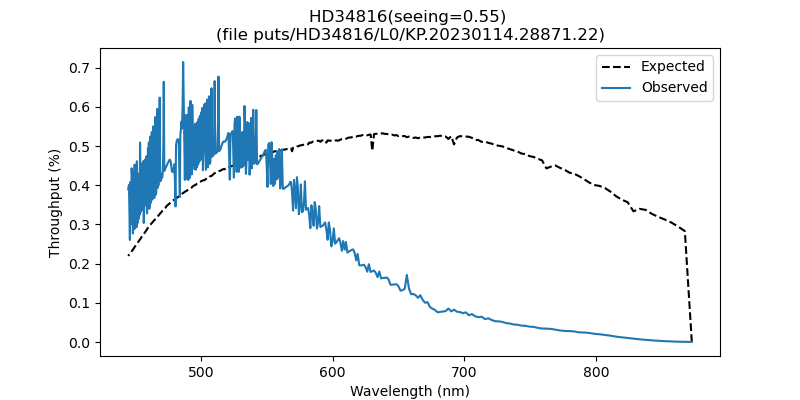
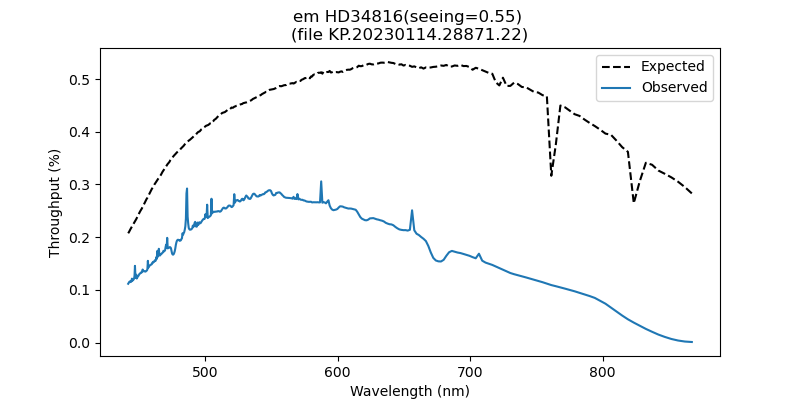
fit exp meter wave

diff --git a/calc_throughput_tools.py b/calc_throughput_tools.py
@@ -151,13 +151,12 @@ def load_em_data(filename='./data/10Lac/KP.20221110.26825.94_L1.fits',ploton=Fal
 	# Define wavelength arrays and disperion at each wavelength (nm per pixel)
 	wav_SCI_str = df_SCI_EM.columns[2:] # string (center) wavelengths of each pixel
 	wav_SCI     = df_SCI_EM.columns[2:].astype(float) # float (center) wavelengths of each pixel
-	disp_SCI    = wav_SCI*0+np.gradient(wav_SCI,1)*-1
-	disp_SKY    = wav_SKY*0+np.gradient(wav_SKY,1)*-1
-	disp_SCI_smooth = np.polyval(np.polyfit(wav_SCI,disp_SCI, deg=6),wav_SCI)
-	disp_SKY_smooth = np.polyval(np.polyfit(wav_SKY,disp_SKY, deg=6),wav_SKY)
-
-	# define normalized flux array (e- / nm / time)
-	df_SCI_EM_norm        = df_SCI_EM[wav_SCI_str] * EM_gain /disp_SCI
+	disp_SCI = wav_SCI*0+np.gradient(wav_SCI,1)*-1
+	disp_SCI_smooth   = np.polyval(np.polyfit(wav_SCI,disp_SCI, deg=6),wav_SCI)
+	wav_SCI_smooth    = wav_SCI[0] + -1*np.cumsum(disp_SCI_smooth)
+	
+	# define normalized flux array (e- / time)
+	df_SCI_EM_norm        = df_SCI_EM[wav_SCI_str] * EM_gain
 
 	# define time arrays
 	date_beg = np.array(df_SCI_EM["Date-Beg"], dtype=np.datetime64)
@@ -175,7 +174,7 @@ def load_em_data(filename='./data/10Lac/KP.20221110.26825.94_L1.fits',ploton=Fal
 	note   =header['OBJECT']
 
 	# reshape to match structure of kpf main data
-	return  wav_SCI.values.reshape(1,len(wav_SCI)), int_SCI_spec.values.reshape(1,len(wav_SCI)), exptime,airmass, note
+	return  wav_SCI_smooth.reshape(1,len(wav_SCI)), int_SCI_spec.values.reshape(1,len(wav_SCI)), exptime,airmass, note
 
 def load_kpf_data(filename,ploton=False):
 	"""

diff --git a/examples/run_HD34816_expmeter.py b/examples/run_HD34816_expmeter.py
@@ -15,7 +15,7 @@ if __name__=='__main__':
 	xdat, measured_throughput, expected_throughput = compute_throughput(kpf_file,standard_spec_file,mode=mode,seeing=seeing,expected_throughput_file=expected_throughput_file)
 	
 	# Plot the throughputs
-	title = starname + '(seeing=%s) \n(file %s)'%(seeing,kpf_file.split('/')[-1].strip('_L1.fits'))
+	title = mode + ' ' + starname + '(seeing=%s) \n(file %s)'%(seeing,kpf_file.split('/')[-1].strip('_L1.fits'))
 	plot_throughput(xdat, measured_throughput, expected_throughput,fac=1,title=title)
 	plt.savefig('outputs/em_%s_throughput.png'%starname) # maybe change this to label it based on file used
 

diff --git a/examples/run_HR4554_expmeter.py b/examples/run_HR4554_expmeter.py
@@ -15,7 +15,7 @@ if __name__=='__main__':
 	xdat, measured_throughput, expected_throughput = compute_throughput(kpf_file,standard_spec_file,mode=mode,seeing=seeing,expected_throughput_file=expected_throughput_file)
 	
 	# Plot the throughputs
-	title = starname + '(seeing=%s) \n(file %s)'%(seeing,kpf_file.split('/')[-1].strip('_L1.fits'))
+	title = mode + ' ' + starname + '(seeing=%s) \n(file %s)'%(seeing,kpf_file.split('/')[-1].strip('_L1.fits'))
 	plot_throughput(xdat, measured_throughput, expected_throughput,fac=1,title=title)
 	plt.savefig('outputs/em_%s_throughput.png'%starname) # maybe change this to label it based on file used
 
